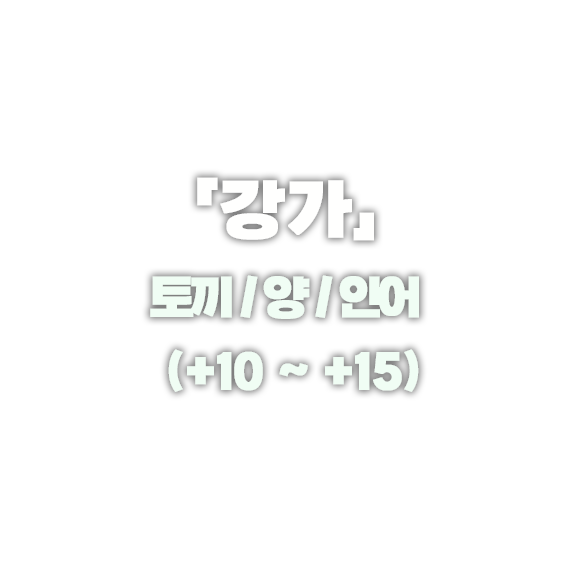
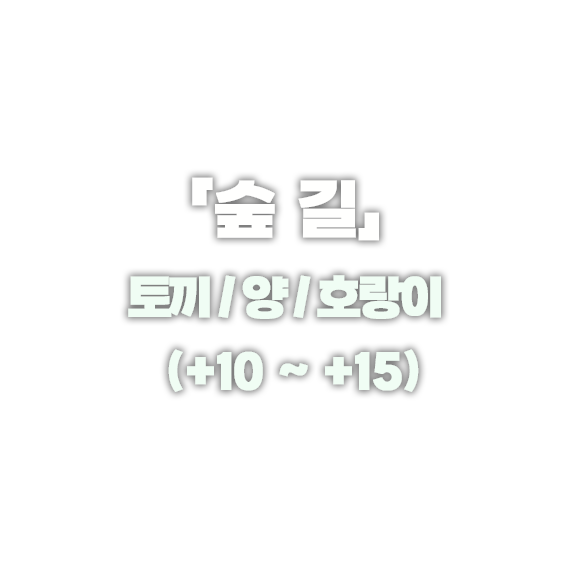
경험치 바를 두껍게, 경험치 숫자를 크게 조정
- 경험치 바 높이 h-3 → h-4
- "X/10" 숫자 text-lg → text-xl
- 분모(/10, /20)를 분자와 같은 크기·굵기로 맞추고 색(jungle-400)으로만 구분
  — 크기까지 작으면 부가정보처럼 보여 잘 읽히지 않았다

Claude-Session: https://claude.ai/code/session_01MZ87smBMT2NKycNQp69Fmw

Changed region(s): [[0.2161, 0.4631, 0.7719, 0.5557], [0.3087, 0.2779, 0.6792, 0.4322]]

diff --git a/client/components/game/ScorePanel.tsx b/client/components/game/ScorePanel.tsx
@@ -107,13 +107,15 @@ function AnimalTable({
         {isTeamB ? levelBadge : face}
 
         <div className="flex-1 min-w-0 flex flex-col items-center justify-center gap-1">
+          {/* 분자(현재 경험치)와 분모(레벨업 기준)는 같은 크기·굵기로 두고 색으로만
+              구분한다 — 크기까지 다르면 분모가 부가정보처럼 작아져 잘 안 읽힌다. */}
           <p
-            className={`font-extrabold text-jungle-900 tabular-nums leading-tight text-lg ${isPopping ? 'score-pop' : ''}`}
+            className={`font-extrabold text-jungle-900 tabular-nums leading-tight text-xl ${isPopping ? 'score-pop' : ''}`}
             style={isFlashing ? { color: '#22c55e' } : undefined}
           >
-            {expInLevel}<span className="text-xs font-semibold text-jungle-400 ml-0.5">/{threshold}</span>
+            {expInLevel}<span className="text-jungle-400 ml-0.5">/{threshold}</span>
           </p>
-          <div className="w-full h-3 bg-gray-100 rounded-full overflow-hidden">
+          <div className="w-full h-4 bg-gray-100 rounded-full overflow-hidden">
             <div
               className="h-full bg-jungle-500 transition-[width] duration-300"
               style={{ width: `${progressPct}%` }}
